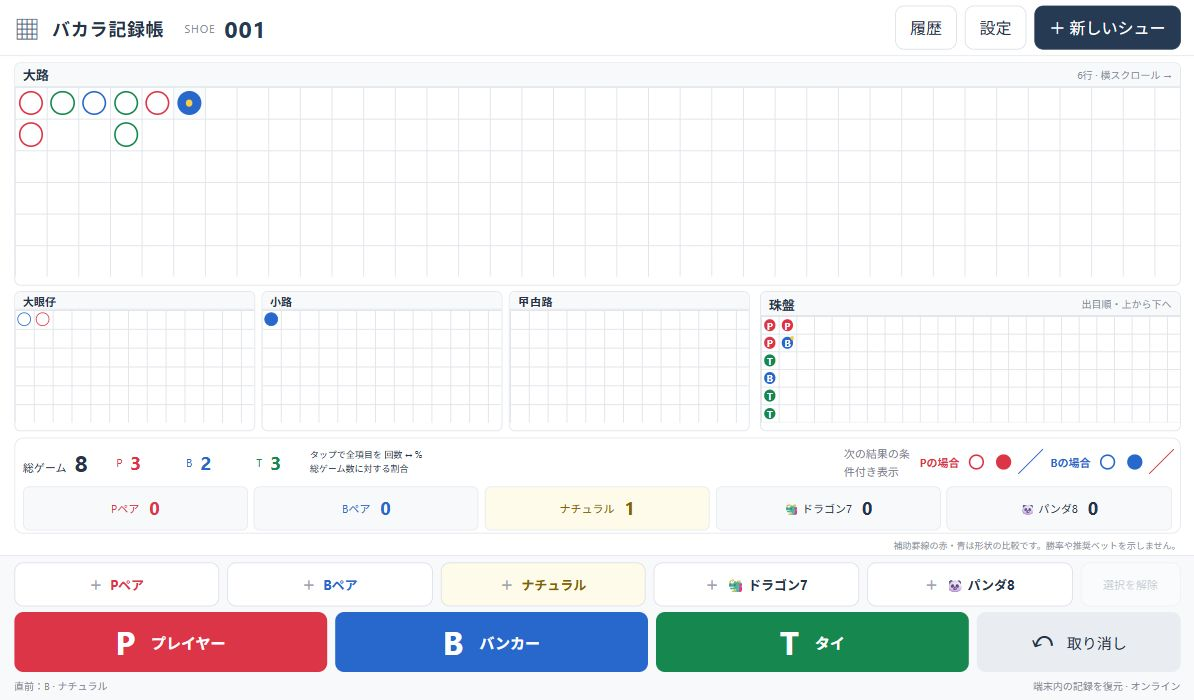
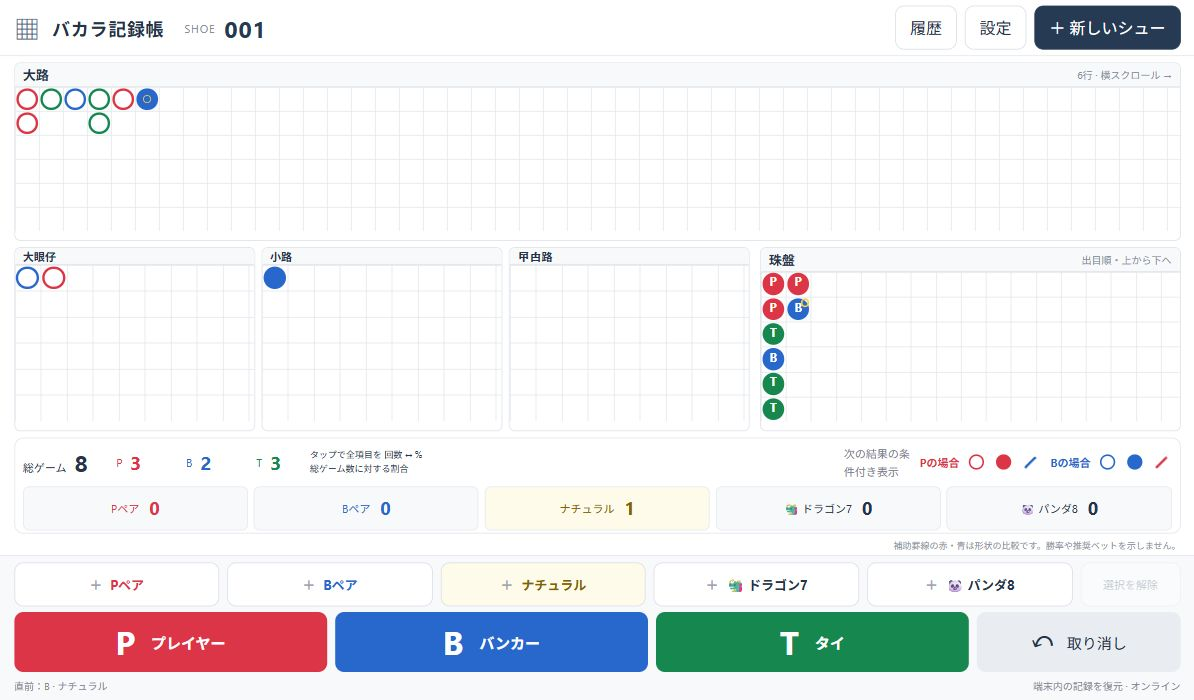
Enlarge bead plate and strengthen road symbols and centered badges

diff --git a/src/Board.tsx b/src/Board.tsx
@@ -2,5 +2,5 @@ import React,{useEffect,useRef,useState} from 'react';
 import type {Cell,Game} from './engine';
 // Whole CSS pixels keep the repeated grid and indexed cell positions on the same pitch.
 export function Mark({value,kind='big'}:{value:string;kind?:string}){return <span className={`mark ${value} ${kind}`}>{kind==='bead'?value:kind==='slash'?'╱':''}</span>;}
-function Badges({games}:{games:Game[]}){return <>{games.some(g=>g.bPair)&&<i className="pair bpair"/>}{games.some(g=>g.pPair)&&<i className="pair ppair"/>}{games.some(g=>g.natural)&&<i className="natural-dot" aria-label="ナチュラル"/>}<span className="badges">{games.some(g=>g.dragon)&&'🐲'}{games.some(g=>g.panda)&&'🐼'}</span></>;}
-export function Board({title,cells,kind,min=24,onCell}:{title:string;cells:Cell[];kind?:string;min?:number;onCell?:(c:Cell)=>void}){const ref=useRef<HTMLDivElement>(null);const [cellSize,setCellSize]=useState<number>();const [viewportWidth,setViewportWidth]=useState(0);useEffect(()=>{const el=ref.current;if(!el)return;const resize=()=>{setViewportWidth(el.clientWidth);setCellSize(getComputedStyle(el).getPropertyValue('--fit-grid').trim()==='1'?Math.max(1,Math.floor((el.clientHeight-8)/6)):undefined);};const observer=new ResizeObserver(resize);observer.observe(el);resize();return()=>observer.disconnect();},[]);const last=cells.at(-1);useEffect(()=>{const el=ref.current;if(!el)return;const target=el.querySelector<HTMLElement>('.cell:last-child');el.scrollLeft=target?Math.max(0,target.offsetLeft+target.offsetWidth*2-el.clientWidth):0;},[cells.length,cellSize]);const cols=Math.max(min,...cells.map(c=>c.x+2));const lineCols=Math.max(cols,Math.ceil(viewportWidth/(cellSize||10)));return <section className={`board ${kind||'big'}`} style={{'--cell':cellSize?`${cellSize}px`:undefined} as React.CSSProperties}><div className="board-title"><h2>{title}</h2><span>{kind==='bead'?'出目順・上から下へ':'6行 · 横スクロール →'}</span></div><div ref={ref} className="scroll"><div className="grid" style={{width:`calc(var(--cell) * ${cols})`}}><div className="grid-lines" aria-hidden="true">{Array.from({length:lineCols+1},(_,i)=><i key={`v${i}`} className="grid-line vertical" style={{left:`calc(var(--cell) * ${i})`}}/>)}{Array.from({length:7},(_,i)=><i key={`h${i}`} className="grid-line horizontal" style={{top:`calc(var(--cell) * ${i})`}}/>)}</div>{cells.map((c,i)=>{const content=<><Mark value={c.value} kind={kind}/><Badges games={c.games}/></>;return onCell?<button key={i} className={`cell ${c.games.some(g=>g.natural)?'natural-game':''} ${c===last?'latest':''}`} style={{left:`calc(var(--cell) * ${c.x})`,top:`calc(var(--cell) * ${c.y})`}} onClick={()=>onCell(c)} aria-label={`${title} ${c.games.map(g=>g.winner).join('、')} 詳細`}>{content}</button>:<div key={i} className="cell" style={{left:`calc(var(--cell) * ${c.x})`,top:`calc(var(--cell) * ${c.y})`}}>{content}</div>;})}</div></div></section>;}
+function Badges({games}:{games:Game[]}){return <>{games.some(g=>g.bPair)&&<i className="pair bpair"/>}{games.some(g=>g.pPair)&&<i className="pair ppair"/>}{games.some(g=>g.natural)&&<i className="natural-dot" aria-label="ナチュラル"/>}<span className="special-badge">{games.some(g=>g.dragon)&&'🐲'}{games.some(g=>g.panda)&&'🐼'}</span></>;}
+export function Board({title,cells,kind,min=24,onCell}:{title:string;cells:Cell[];kind?:string;min?:number;onCell?:(c:Cell)=>void}){const ref=useRef<HTMLDivElement>(null);const [cellSize,setCellSize]=useState<number>();const [viewportWidth,setViewportWidth]=useState(0);useEffect(()=>{const el=ref.current;if(!el)return;const resize=()=>{setViewportWidth(el.clientWidth);setCellSize(getComputedStyle(el).getPropertyValue('--fit-grid').trim()==='1'?Math.max(1,Math.floor((el.clientHeight-8)/6)):undefined);};const observer=new ResizeObserver(resize);observer.observe(el);resize();return()=>observer.disconnect();},[]);const last=cells.at(-1);useEffect(()=>{const el=ref.current;if(!el)return;const target=el.querySelector<HTMLElement>('.cell:last-child');el.scrollLeft=target?Math.max(0,target.offsetLeft+target.offsetWidth*2-el.clientWidth):0;},[cells.length,cellSize]);const cols=Math.max(min,...cells.map(c=>c.x+2));const lineCols=Math.max(cols,Math.ceil(viewportWidth/(cellSize||10)));return <section className={`board ${kind||'big'}`} style={{'--cell':cellSize?`${cellSize}px`:undefined} as React.CSSProperties}><div className="board-title"><h2>{title}</h2><span>{kind==='bead'?'出目順・上から下へ':'6行 · 横スクロール →'}</span></div><div ref={ref} className="scroll"><div className="grid" style={{width:`calc(var(--cell) * ${cols})`}}><div className="grid-lines" aria-hidden="true">{Array.from({length:lineCols+1},(_,i)=><i key={`v${i}`} className="grid-line vertical" style={{left:`calc(var(--cell) * ${i})`}}/>)}{Array.from({length:7},(_,i)=><i key={`h${i}`} className="grid-line horizontal" style={{top:`calc(var(--cell) * ${i})`}}/>)}</div>{cells.map((c,i)=>{const content=<><Mark value={c.value} kind={kind}/><Badges games={c.games}/></>;return onCell?<button key={i} className={`cell ${c.games.some(g=>g.natural)?'natural-game':''} ${c===last?'latest':''}`} style={{left:`calc(var(--cell) * ${c.x})`,top:`calc(var(--cell) * ${c.y})`}} onClick={()=>onCell(c)} aria-label={`${title} ${c.games.map(g=>g.winner).join('、')} 詳細`}>{content}</button>:<div key={i} className={`cell ${c.games.some(g=>g.natural)?"natural-game":""}`} style={{left:`calc(var(--cell) * ${c.x})`,top:`calc(var(--cell) * ${c.y})`}}>{content}</div>;})}</div></div></section>;}

diff --git a/src/stats.css b/src/stats.css
@@ -9,7 +9,7 @@
 .counts .stat-toggle[aria-pressed=true]{border-color:#b6c2d1;background:#eaf0f7}
 .stat-help{font-size:9px;line-height:1.5}
 @media(min-width:900px) and (orientation:landscape){
- .workspace{grid-template-rows:minmax(0,1.6fr) minmax(0,1fr) 96px 12px}
+ .workspace{grid-template-rows:minmax(0,1.28fr) minmax(0,1.32fr) 96px 12px}
  .derived{grid-template-columns:repeat(3,minmax(0,1fr));grid-template-rows:minmax(0,1fr);gap:6px}
  .middle{grid-template-columns:1.75fr 1fr}
  .summary{padding:2px 8px;gap:2px 8px;grid-template-rows:44px 44px}
@@ -44,3 +44,21 @@
 .grid-line{position:absolute;display:block;border:0;margin:0;padding:0}
 .grid-line.vertical{top:0;height:100%;border-left:1px solid #e2e6eb}
 .grid-line.horizontal{left:0;width:100%;border-top:1px solid #e2e6eb}
+
+/* Fill the cells more clearly while keeping pair dots inside their edges. */
+.board .cell>.mark:not(.slash){width:calc(var(--cell)*.88);height:calc(var(--cell)*.88);border-width:clamp(2.5px,calc(var(--cell)*.09),4px)}
+.board.big .cell>.mark{width:calc(var(--cell)*.88);height:calc(var(--cell)*.88);border-width:clamp(2.5px,calc(var(--cell)*.09),4px)}
+.board.bead .cell>.mark{border:0;font-size:clamp(11px,calc(var(--cell)*.5),23px)}
+.board.big .bpair{left:calc(50% - var(--cell)*.311 + .5px);top:calc(50% - var(--cell)*.311 + .5px)}
+.board.big .ppair{left:calc(50% + var(--cell)*.311 + .5px);top:calc(50% + var(--cell)*.311 + .5px)}
+.mark.slash{font-size:0!important;border:0!important;background:transparent!important;position:relative}
+.mark.slash::after{content:'';position:absolute;left:50%;top:50%;width:2.5px;height:100%;background:currentColor;border-radius:2px;transform:translate(-50%,-50%) rotate(45deg)}
+.board .mark.slash{width:calc(var(--cell)*.78);height:calc(var(--cell)*.78)}
+.board .mark.slash::after{width:clamp(2.5px,calc(var(--cell)*.12),4px)}
+.natural-dot{width:calc(var(--cell)*.33);height:calc(var(--cell)*.33);background:transparent;border:clamp(1.5px,calc(var(--cell)*.065),3px) solid #f9ce42}
+.special-badge{position:absolute;display:flex;align-items:center;justify-content:center;pointer-events:none;font-size:calc(var(--cell)*.56);line-height:1;z-index:2}
+.board.big .special-badge{left:calc(50% + .5px);top:calc(50% + .5px);transform:translate(-50%,-50%);width:calc(var(--cell)*.62);height:calc(var(--cell)*.62)}
+.board.bead .special-badge{right:0;top:0;font-size:calc(var(--cell)*.4)}
+.board.bead .pair{width:calc(var(--cell)*.2);height:calc(var(--cell)*.2);right:auto;bottom:auto;transform:translate(-50%,-50%)}
+.board.bead .bpair{left:calc(50% - var(--cell)*.311);top:calc(50% - var(--cell)*.311)}
+.board.bead .ppair{left:calc(50% + var(--cell)*.311);top:calc(50% + var(--cell)*.311)}

diff --git a/tests/road-layout.tsx b/tests/road-layout.tsx
@@ -6,6 +6,7 @@ import {displayRoad,emptyFlags,roads,type Game} from '../src/engine';
 import '../src/style.css';
 import '../src/compact.css';
 import '../src/stats.css';
-const games:Game[]=Array.from({length:2400},(_,i)=>({...emptyFlags(),id:String(i),at:'2026-11-16T00:00:00Z',winner:Math.floor(i/8)%2?'B':'P',natural:i%37===0,pPair:i%19===0,bPair:i%23===0}));
+const count=new URLSearchParams(location.search).has('sample')?40:2400;
+const games:Game[]=Array.from({length:count},(_,i)=>({...emptyFlags(),id:String(i),at:'2026-11-16T00:00:00Z',winner:Math.floor(i/8)%2?'B':'P',natural:i%11===0,dragon:i%11!==0&&Math.floor(i/8)%2===1&&i%13===0,panda:i%11!==0&&Math.floor(i/8)%2===0&&i%7===0,pPair:i%19===0,bPair:i%23===0}));
 const r=roads(games);
-createRoot(document.getElementById('root')!).render(<main><header>長い罫線の配置検証 · 2400ゲーム · 保存なし</header><div className="workspace"><Board title="大路" cells={displayRoad(games)}/><div className="middle"><div className="derived">{r.derived.map((cells,i)=><Board key={i} title={['大眼仔','小路','曱甴路'][i]} kind={['ring','solid','slash'][i]} cells={cells}/>)}</div><Board title="珠盤" kind="bead" cells={games.map((g,i)=>({x:Math.floor(i/6),y:i%6,value:g.winner,games:[g]}))}/></div><div className="summary">全マスの中心と背景罫線のピッチを測定する検証専用画面</div><div className="legend">入力・端末内保存なし</div></div><footer/></main>);
+createRoot(document.getElementById('root')!).render(<main><header>長い罫線の配置検証 · {count}ゲーム · 保存なし</header><div className="workspace"><Board title="大路" cells={displayRoad(games)}/><div className="middle"><div className="derived">{r.derived.map((cells,i)=><Board key={i} title={['大眼仔','小路','曱甴路'][i]} kind={['ring','solid','slash'][i]} cells={cells}/>)}</div><Board title="珠盤" kind="bead" cells={games.map((g,i)=>({x:Math.floor(i/6),y:i%6,value:g.winner,games:[g]}))}/></div><div className="summary">全マスの中心と背景罫線のピッチを測定する検証専用画面</div><div className="legend">入力・端末内保存なし</div></div><footer/></main>);
